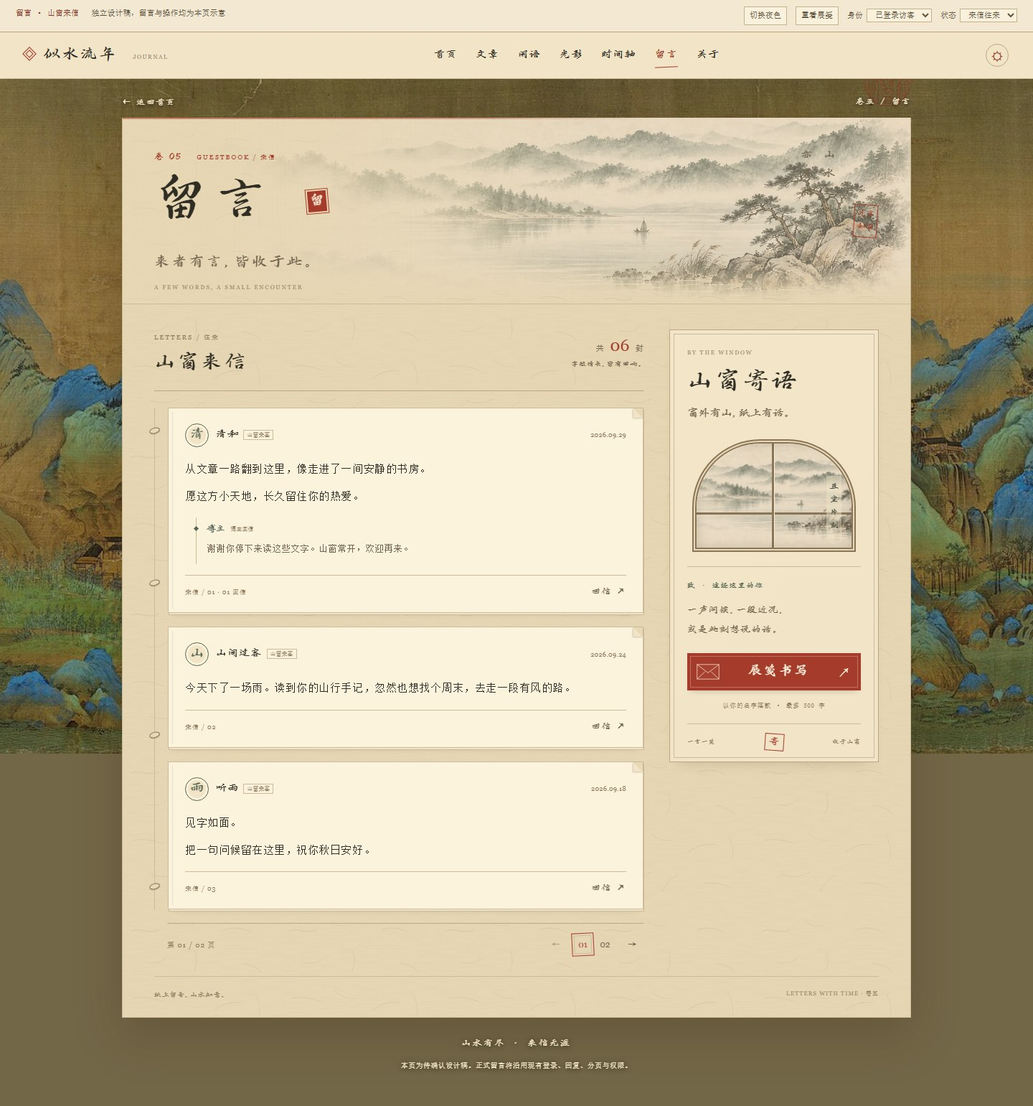
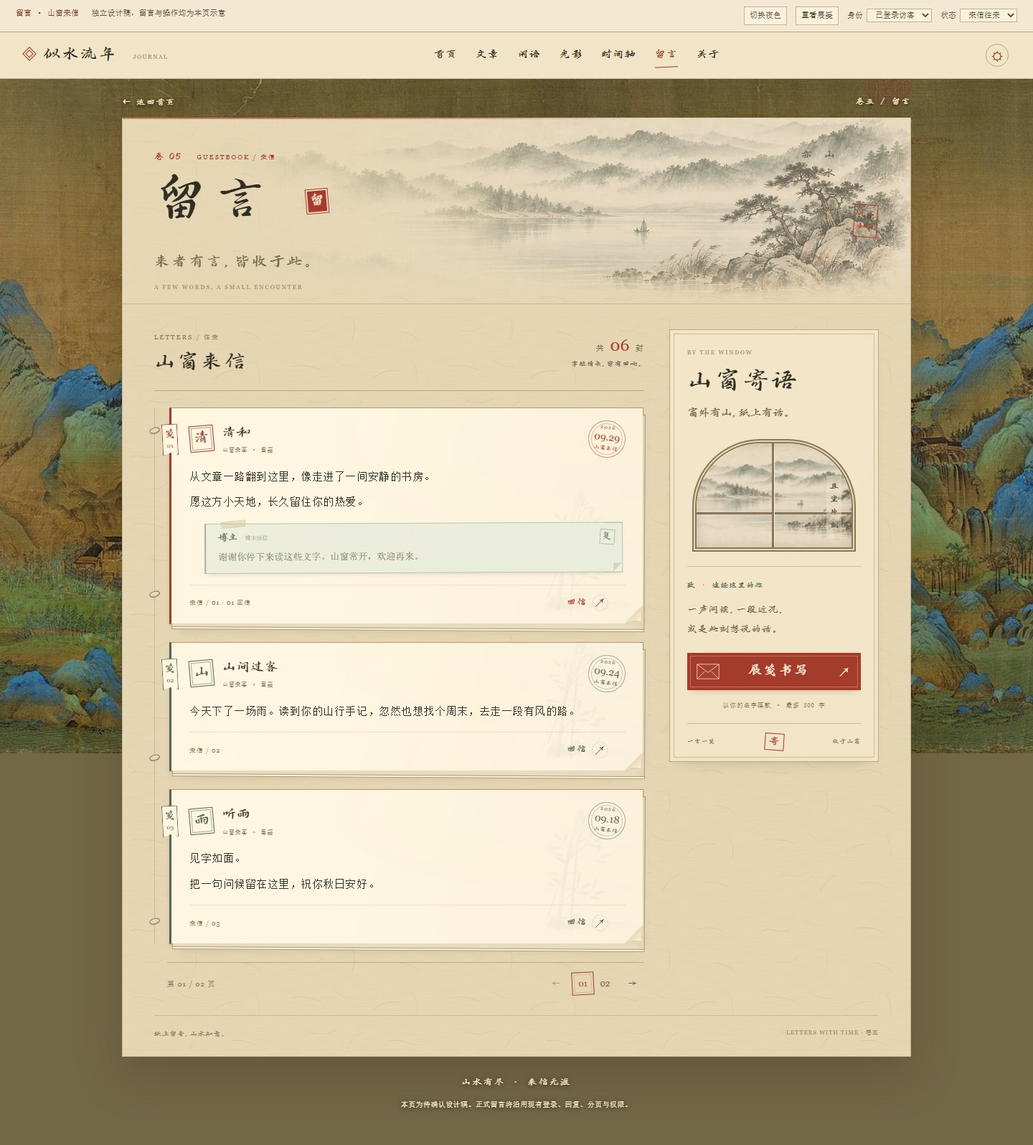
design(guestbook): refine letter cards and hover effects

diff --git a/effect-preview/guestbook-window-letters-v2.css b/effect-preview/guestbook-window-letters-v2.css
@@ -20,3 +20,192 @@ html.motion-ready .hero-landscape{animation:landscape-reveal 1.5s var(--ease) bo
 @media(max-width:760px){.correspondence{grid-template-columns:1fr;gap:28px;padding-top:24px}.writing{grid-row:1}.window-panel{position:relative;display:grid;grid-template-columns:1fr 175px;column-gap:23px;padding:21px 24px 17px}.window-panel>.eyebrow,.window-panel>h2,.window-copy{grid-column:1}.window-panel h2{font-size:34px;margin:6px 0 10px}.mountain-window{grid-column:2;grid-row:1/6;margin:0;height:162px;align-self:center}.invitation{padding-top:11px;margin-top:14px;grid-column:1}.invitation p{margin:7px 0 13px;font-size:13px}.write-action,.login-action{grid-column:1;min-height:45px;font-size:18px}.writing-note{grid-column:1/-1;text-align:left;margin:12px 0 0}.panel-tail{display:none}.section-head{margin-bottom:18px}.site-nav nav{display:none;position:absolute;left:0;right:0;top:100%;margin:0;flex-wrap:wrap;padding:18px 25px;background:var(--muted-paper);border-bottom:1px solid var(--line);justify-content:center;gap:15px 26px}.site-nav nav.open{display:flex}.nav-menu{display:block;margin-left:auto}.site-nav{min-height:58px}.masthead{height:238px}.hero-copy{padding-top:36px}.hero-copy h1{font-size:68px}.hero-inscription{right:27px;top:33px}.hero-inscription>span{font-size:14px}.hero-inscription i{margin-top:74px}.letter-body{font-size:15px}.letter-head time{font-size:9px}.sheet-tail{padding-block:17px}}
 @media(max-width:480px){.preview-tools{padding:10px 14px;gap:7px;font-size:10px}.preview-tools>div{gap:7px}.preview-tools b{display:block}.site-nav{padding-inline:18px}.sheet{margin:0 10px;padding:0 19px}.back-link{margin:18px 14px 11px}.masthead{margin-inline:-19px;height:217px}.hero-copy{padding:30px 0 18px 22px}.hero-copy h1{font-size:62px;margin-top:15px}.hero-description{font-size:19px}.hero-tail{left:22px;font-size:6px;letter-spacing:.15em}.hero-inscription{right:19px;top:39px;gap:8px}.hero-inscription>span{font-size:12px}.hero-inscription i{font-size:10px}.hero-landscape{background-position:61% 55%;opacity:.43}.window-panel{grid-template-columns:minmax(0,1fr) 105px;column-gap:12px;padding:18px 16px 16px}.window-panel h2{font-size:29px;letter-spacing:.07em}.window-copy{font-size:13px}.window-panel .eyebrow{font-size:7px}.mountain-window{height:142px;grid-row:1/5;border-width:5px}.window-view{background-size:auto 146px}.window-note{right:6px;top:44px;font-size:10px}.invitation p{font-size:12px}.invitation>span{font-size:9px}.write-action,.login-action{grid-column:1/-1;min-height:47px;justify-content:center;gap:17px;margin-top:5px}.write-action svg{width:29px}.writing-note{text-align:center;font-size:8px}.correspondence{gap:25px;padding-block:22px}.section-head h2{font-size:27px}.section-head small{font-size:9px}.section-head>p{font-size:10px}.book-body{padding-left:12px}.binding{left:-7px;width:13px}.letter{padding:18px 14px 12px;margin-bottom:17px}.letter-head{gap:8px}.avatar{width:29px;height:29px;font-size:18px}.author{font-size:14px}.letter-head time{font-size:8px;letter-spacing:0}.letter-body{font-size:14px;line-height:2.05;margin-block:14px}.reply{margin-left:6px;padding-left:12px}.letter-foot>span{font-size:8px}.text-action{font-size:13px;padding:7px 0}.pagination{margin-left:12px;font-size:9px}.pagination>div{gap:3px}.pagination button{width:29px}.sheet-tail{font-size:9px}.sheet-tail span:last-child{font-size:6px;letter-spacing:.05em}.site-footer{padding-top:25px}.site-footer p{font-size:9px}#composer-form{padding:22px 22px}.dialog-title{display:block;margin-block:20px}.dialog-title h2{font-size:36px}.dialog-title p{font-size:14px;margin-top:9px}.dialog-foot{flex-wrap:wrap;gap:10px}.dialog-foot button{width:100%;margin:3px 0 0}#message{font-size:16px;padding-left:11px}.line-numbers{width:27px}.signature{font-size:10px}.signature b{font-size:14px}.manuscript{max-height:45dvh}.toast{font-size:15px}}
 @media(prefers-reduced-motion:reduce){html{scroll-behavior:auto}*,*::before,*::after{animation:none!important;transition:none!important}.letter:hover,.write-action:hover,.login-action:hover{transform:none}}
+
+/* 来信装帧：封笺、背纸、落款邮戳与附笺回信。 */
+:root {
+  --letter-paper:#fff6e1;
+  --letter-back:#e7dbc0;
+  --letter-border:#b29b72;
+  --letter-rule:#caba9859;
+  --reply-paper:#ebeddc;
+  --reply-border:#abb298;
+  --fold-shadow:#baa17a;
+  --fold-paper:#eedfc1;
+  --fold-light:#fff8e7;
+  --letter-light:#d5b56926;
+}
+:root[data-theme=dark] {
+  --letter-paper:#564934;
+  --letter-back:#3f3528;
+  --letter-border:#a28a61;
+  --letter-rule:#c5b18330;
+  --reply-paper:#3f4838;
+  --reply-border:#7c8b6e;
+  --fold-shadow:#2c241b;
+  --fold-paper:#8b7552;
+  --fold-light:#b6a078;
+  --letter-light:#ead3a318;
+}
+.book-body {padding-left:20px;}
+.crafted-letter {
+  --letter-accent:var(--pine);
+  border:1px solid var(--letter-border);
+  border-left:3px solid var(--letter-accent);
+  margin-bottom:25px;
+  padding:17px 24px 12px 25px;
+  background:linear-gradient(108deg,#fff7dd27,transparent 32%,#76542808),var(--letter-paper);
+  box-shadow:0 1px 2px #3e2b1829,0 12px 17px -12px #3e2b185e,inset 0 1px 0 #fff7e46e;
+  transform-origin:15% 30%;
+  transition:transform .45s var(--ease),box-shadow .45s,border-color .4s;
+}
+.crafted-letter.has-reply {--letter-accent:var(--seal);}
+.crafted-letter::before {
+  inset:0;width:auto;
+  opacity:.08;
+  background:radial-gradient(ellipse at var(--letter-mx,90%) var(--letter-my,15%),var(--letter-light),transparent 65%),url('../public/bg/guestbook-botanical.svg') right 8px bottom 15px/130px auto no-repeat;
+  pointer-events:none;
+}
+.crafted-letter::after {content:none;}
+.crafted-letter > .letter-head,.crafted-letter > .letter-body,.crafted-letter > .replies,.crafted-letter > .letter-foot,.crafted-letter > .reply-input {position:relative;z-index:1;}
+.letter-surface {
+  position:absolute;inset:0;z-index:-1;pointer-events:none;
+  background:linear-gradient(108deg,#fff7dd27,transparent 32%,#76542808),var(--letter-paper);
+}
+.letter-backing {
+  position:absolute;inset:5px -4px -5px 2px;z-index:-2;
+  border:1px solid var(--letter-border);
+  background:linear-gradient(90deg,transparent 98%,#64482810),var(--letter-back);
+  box-shadow:0 3px 0 -1px var(--letter-paper),0 3px 0 var(--letter-border);
+  transform:rotate(.35deg);transform-origin:top left;
+  transition:transform .55s var(--ease);
+  pointer-events:none;
+}
+.letter-folio {
+  position:absolute;top:22px;left:-13px;width:22px;min-height:44px;z-index:2;
+  display:flex;flex-direction:column;align-items:center;gap:2px;
+  padding:4px 2px 7px;border:1px solid var(--letter-accent);
+  background:var(--letter-paper);
+  box-shadow:2px 2px 3px #31231117;
+  clip-path:polygon(0 0,100% 0,100% 100%,50% calc(100% - 4px),0 100%);
+  color:var(--letter-accent);transform:rotate(-3deg);
+  transition:transform .4s,background .4s,color .4s;
+}
+.letter-folio i {font:16px/1.2 var(--brush);font-style:normal;}
+.letter-folio b {font:8px Georgia,serif;letter-spacing:.05em;}
+.letter-fold {
+  position:absolute;right:-1px;bottom:-1px;width:25px;height:25px;z-index:2;
+  filter:drop-shadow(-1px -1px 1px #50391d25);pointer-events:none;
+  transition:width .5s var(--ease),height .5s var(--ease);
+}
+.letter-fold svg {display:block;width:100%;height:100%;overflow:visible;}
+.crafted-letter .letter-head {gap:12px;min-height:50px;padding-right:0;}
+.crafted-letter .avatar {
+  position:relative;width:34px;height:37px;border-radius:1px;
+  color:var(--letter-accent);border-color:var(--letter-accent);
+  background:var(--letter-paper);
+  box-shadow:inset 0 0 0 2px var(--letter-paper),inset 0 0 0 3px color-mix(in srgb,var(--letter-accent) 48%,transparent);
+  transform:rotate(-5deg);font-size:22px;
+  transition:transform .4s,background .4s,color .4s;
+}
+.crafted-letter .avatar::after {
+  position:absolute;inset:-2px;border:1px solid var(--letter-accent);border-radius:2px;
+  opacity:0;content:'';pointer-events:none;
+}
+.crafted-letter .author {font-size:19px;letter-spacing:.06em;}
+.crafted-letter .author-tag {
+  display:block;border:none;margin:5px 0 0;padding:0;
+  font:8px var(--song);letter-spacing:.1em;color:var(--faint);
+}
+.crafted-letter .letter-postmark {
+  display:flex;flex-direction:column;justify-content:center;align-items:center;
+  flex:none;gap:1px;width:52px;height:52px;padding:4px;
+  border:1px solid color-mix(in srgb,var(--letter-accent) 50%,transparent);
+  border-radius:50%;color:var(--letter-accent);
+  box-shadow:inset 0 0 0 3px var(--letter-paper),inset 0 0 0 4px color-mix(in srgb,var(--letter-accent) 30%,transparent);
+  transform:rotate(7deg);transition:transform .5s,color .4s,border-color .4s;
+}
+.letter-postmark span {font:7px/1 Georgia,serif;letter-spacing:.2em;}
+.letter-postmark b {font:14px/1.25 Georgia,serif;font-weight:400;letter-spacing:0;}
+.letter-postmark i {font:8px/1.4 var(--brush);letter-spacing:.08em;font-style:normal;}
+.crafted-letter .letter-body {margin:12px 0 13px;line-height:2.03;}
+.crafted-letter .letter-body p+p {margin-top:5px;}
+.crafted-letter .letter-foot {border-top-color:var(--letter-rule);padding:8px 24px 0 0;min-height:36px;}
+.crafted-letter .reply-toggle {display:flex;align-items:center;gap:7px;color:var(--letter-accent);}
+.reply-toggle b {
+  display:grid;place-items:center;width:23px;height:23px;
+  font:14px Georgia,serif;border:1px solid var(--letter-rule);border-radius:50%;
+  transition:transform .4s,border-color .4s,background .4s;
+}
+.reply-toggle:hover b {transform:translate(2px,-2px);border-color:var(--letter-accent);background:var(--muted-paper);}
+.crafted-letter .reply {
+  position:relative;margin:14px 4px 15px 21px;padding:10px 15px 10px 17px;
+  background:linear-gradient(130deg,#fff7dc17,transparent 80%),var(--reply-paper);
+  border:1px solid color-mix(in srgb,var(--reply-border) 68%,transparent);
+  border-left:2px solid var(--reply-border);
+  box-shadow:0 4px 7px -5px var(--shadow);
+  transform:rotate(-.25deg);transform-origin:top left;
+  transition:transform .5s var(--ease),box-shadow .5s;
+}
+.crafted-letter .reply::before {
+  left:21px;top:-5px;width:33px;height:8px;
+  border:1px solid #a9977359;
+  background:repeating-linear-gradient(90deg,#bfb48918 0 1px,transparent 1px 3px),#d1c3976b;
+  transform:rotate(-7deg);
+  clip-path:polygon(0 0,100% 8%,95% 100%,3% 92%);
+}
+.crafted-letter .reply::after {
+  position:absolute;right:0;bottom:0;width:12px;height:12px;content:'';
+  background:linear-gradient(135deg,var(--reply-border) 49%,var(--letter-paper) 50%);
+  opacity:.4;pointer-events:none;
+}
+.reply-seal {position:absolute;right:10px;top:9px;color:var(--pine);border:1px solid var(--reply-border);font:13px/1 var(--brush);padding:3px;transform:rotate(4deg);opacity:.8;}
+.crafted-letter .reply-name {padding-right:30px;font-size:14px;gap:10px;}
+.crafted-letter .reply p {margin-top:6px;padding-right:5px;font-size:13px;line-height:1.85;}
+.crafted-letter:hover,.crafted-letter:focus-within {
+  border-color:var(--letter-accent);
+  box-shadow:0 2px 4px #3e2b1829,0 18px 25px -15px #3e2b1866,inset 0 1px 0 #fff7e46e;
+  transform:perspective(1100px) translateY(-4px) rotateX(var(--letter-rx,0deg)) rotateY(var(--letter-ry,0deg));
+}
+.crafted-letter:hover .letter-backing,.crafted-letter:focus-within .letter-backing {transform:rotate(.7deg) translateY(1px);}
+.crafted-letter:hover .letter-fold,.crafted-letter:focus-within .letter-fold {width:41px;height:41px;}
+.crafted-letter:hover .letter-folio,.crafted-letter:focus-within .letter-folio {background:var(--letter-accent);color:var(--letter-paper);transform:rotate(0);}
+.crafted-letter:hover .avatar,.crafted-letter:focus-within .avatar {transform:rotate(0);background:var(--letter-accent);color:var(--letter-paper);}
+.crafted-letter:hover .letter-postmark,.crafted-letter:focus-within .letter-postmark {transform:rotate(0);border-color:var(--letter-accent);}
+.crafted-letter:hover .reply,.crafted-letter:focus-within .reply {transform:rotate(0);box-shadow:0 7px 10px -6px var(--shadow);}
+@keyframes received-ink {0%{opacity:.5;transform:scale(1)}100%{opacity:0;transform:scale(1.5)}}
+@keyframes seal-on-letter {0%{opacity:0;transform:scale(1.3) rotate(-9deg)}70%{opacity:1;transform:scale(.96) rotate(-5deg)}100%{transform:rotate(-5deg)}}
+@keyframes attached-note {from{opacity:0;transform:translateY(7px) rotate(-1deg)}to{opacity:1;transform:rotate(-.25deg)}}
+.crafted-letter:hover .avatar::after {animation:received-ink .7s var(--ease) both;}
+.crafted-letter.arriving .avatar {animation:seal-on-letter .65s .2s var(--ease) both;}
+.crafted-letter.arriving .reply {animation:attached-note .65s .24s var(--ease) both;}
+@media(max-width:900px) {
+  .crafted-letter {padding:16px 19px 11px 23px;}
+  .crafted-letter .author {font-size:18px;}
+}
+@media(max-width:480px) {
+  .book-body {padding-left:15px;}
+  .crafted-letter {padding:15px 14px 10px 20px;margin-bottom:23px;}
+  .letter-folio {width:19px;left:-11px;top:19px;min-height:40px;}
+  .letter-folio i {font-size:14px;}
+  .crafted-letter .letter-head {gap:10px;min-height:44px;}
+  .crafted-letter .avatar {width:29px;height:32px;font-size:19px;}
+  .crafted-letter .author {font-size:16px;}
+  .crafted-letter .author-tag {font-size:7px;letter-spacing:.03em;}
+  .crafted-letter .letter-postmark {width:46px;height:46px;}
+  .letter-postmark b {font-size:12px;}
+  .letter-postmark span {font-size:6px;}
+  .letter-postmark i {font-size:7px;}
+  .crafted-letter .letter-body {margin:12px 0;}
+  .crafted-letter .reply {margin:13px 0 13px 8px;padding:10px 12px;}
+  .crafted-letter .reply-name {font-size:13px;gap:7px;}
+  .crafted-letter .reply-name small {font-size:7px;}
+  .crafted-letter .reply p {font-size:12px;line-height:1.9;}
+  .reply-seal {right:7px;top:8px;font-size:12px;}
+  .crafted-letter .letter-foot {padding-right:18px;}
+  .letter-fold {width:21px;height:21px;}
+  .crafted-letter:focus-within .letter-fold {width:30px;height:30px;}
+}
+@media(prefers-reduced-motion:reduce) {
+  .crafted-letter:hover,.crafted-letter:focus-within {transform:none;}
+  .crafted-letter .avatar::after {display:none;}
+}

diff --git a/effect-preview/guestbook-window-letters-v2.js b/effect-preview/guestbook-window-letters-v2.js
@@ -16,7 +16,11 @@
   const bodyText = value => value.split('\n').map(line => `<p>${escape(line) || '<br>'}</p>`).join('');
   const pad = value => String(value).padStart(2,'0');
   function notify(text) { clearTimeout(timer);$('toast').textContent=text;$('toast').classList.add('visible');timer=setTimeout(()=>$('toast').classList.remove('visible'),3200); }
-  function replyHTML(reply) { return `<div class="reply"><span class="reply-name">${escape(reply.name)}${reply.owner ? '<small>博主回信</small>' : '<small>访客回信</small>'}</span><p>${escape(reply.text).replace(/\n/g,'<br>')}</p></div>`; }
+  function replyHTML(reply) { return `<div class="reply"><span class="reply-seal" aria-hidden="true">复</span><span class="reply-name">${escape(reply.name)}${reply.owner ? '<small>博主回信</small>' : '<small>访客回信</small>'}</span><p>${escape(reply.text).replace(/\n/g,'<br>')}</p></div>`; }
+  function letterCraft(item, index) {
+    const folio=pad((page-1)*3+index+1), gradient=`fold-${item.id}`;
+    return `<span class="letter-backing" aria-hidden="true"></span><span class="letter-surface" aria-hidden="true"></span><span class="letter-folio" aria-hidden="true"><i>笺</i><b>${folio}</b></span><span class="letter-fold" aria-hidden="true"><svg viewBox="0 0 60 60"><defs><linearGradient id="${gradient}" x1="0" y1="0" x2="1" y2="1"><stop stop-color="var(--fold-shadow)"/><stop offset=".55" stop-color="var(--fold-paper)"/><stop offset="1" stop-color="var(--fold-light)"/></linearGradient></defs><path d="M0 60H60V0Z" fill="var(--paper)"/><path d="M0 60L60 0Q51 30 53 52Q25 44 0 60Z" fill="url(#${gradient})"/><path d="M0 60Q25 44 53 52Q51 30 60 0" fill="none" stroke="var(--line)" stroke-width=".8"/></svg></span>`;
+  }
   function render() {
     const state = $('demo-state').value, guest = $('identity').value === 'guest', owner = $('identity').value === 'owner';
     const pages = Math.max(1,Math.ceil(data.length/3));page=Math.min(page,pages);
@@ -28,7 +32,7 @@
       stateBox.innerHTML=`<span class="state-symbol" aria-hidden="true">${symbol}</span><h3>${title}</h3><p>${copy}</p>${state==='error'?'<button type="button" id="retry-list">重新收信</button>':''}`;
       stateBox.toggleAttribute('data-loading',state==='loading');
     } else {
-      list.innerHTML=data.slice((page-1)*3,page*3).map((item,index)=>`<article class="letter" data-id="${item.id}" aria-label="${escape(item.name)}的来信"><header class="letter-head"><span class="avatar" aria-hidden="true">${escape(item.mark)}</span><span class="author">${escape(item.name)}<small class="author-tag">山窗来客</small></span><time datetime="${item.date.replaceAll('.','-')}">${item.date}</time></header><div class="letter-body">${bodyText(item.text)}</div><div class="replies">${item.replies.map(replyHTML).join('')}</div><footer class="letter-foot"><span>来信 / ${pad((page-1)*3+index+1)}${item.replies.length?` · ${pad(item.replies.length)} 回信`:''}</span><div class="letter-actions">${!guest?`<button class="text-action reply-toggle" type="button" aria-expanded="false" aria-controls="reply-${item.id}">回信 ↗</button>`:''}${owner?'<button class="text-action delete-button" type="button">收起</button>':''}</div></footer><form class="reply-input" id="reply-${item.id}" hidden><label class="sr-only" for="reply-text-${item.id}">回复${escape(item.name)}</label><textarea id="reply-text-${item.id}" maxlength="500" placeholder="写一封简短的回信……" required></textarea><div><small>示意回信 · 最多500字</small><button type="submit">寄出回信</button></div></form></article>`).join('');
+      list.innerHTML=data.slice((page-1)*3,page*3).map((item,index)=>`<article class="letter crafted-letter${item.replies.length?' has-reply':''}" data-id="${item.id}" aria-label="${escape(item.name)}的来信">${letterCraft(item,index)}<header class="letter-head"><span class="avatar" aria-hidden="true">${escape(item.mark)}</span><span class="author">${escape(item.name)}<small class="author-tag">山窗来客 · 留笺</small></span><time class="letter-postmark" datetime="${item.date.replaceAll('.','-')}" aria-label="${item.date}"><span>${item.date.slice(0,4)}</span><b>${item.date.slice(5)}</b><i aria-hidden="true">山窗来信</i></time></header><div class="letter-body">${bodyText(item.text)}</div><div class="replies">${item.replies.map(replyHTML).join('')}</div><footer class="letter-foot"><span>来信 / ${pad((page-1)*3+index+1)}${item.replies.length?` · ${pad(item.replies.length)} 回信`:''}</span><div class="letter-actions">${!guest?`<button class="text-action reply-toggle" type="button" aria-expanded="false" aria-controls="reply-${item.id}"><span>回信</span><b aria-hidden="true">↗</b></button>`:''}${owner?'<button class="text-action delete-button" type="button">收起</button>':''}</div></footer><form class="reply-input" id="reply-${item.id}" hidden><label class="sr-only" for="reply-text-${item.id}">回复${escape(item.name)}</label><textarea id="reply-text-${item.id}" maxlength="500" placeholder="写一封简短的回信……" required></textarea><div><small>示意回信 · 最多500字</small><button type="submit">寄出回信</button></div></form></article>`).join('');
     }
     document.querySelector('.pagination').hidden=list.hidden||pages<2;
     $('page-caption').textContent=`第 ${pad(page)} / ${pad(pages)} 页`;
@@ -73,6 +77,16 @@
     if(event.target.closest('.reply-toggle')){const button=event.target.closest('.reply-toggle'),form=article.querySelector('.reply-input');form.hidden=!form.hidden;button.setAttribute('aria-expanded',String(!form.hidden));if(!form.hidden)form.querySelector('textarea').focus();}
     if(event.target.closest('.delete-button')){pendingDelete=Number(article.dataset.id);returnFocus=event.target.closest('.delete-button');$('delete-dialog').showModal();}
   });
+  function resetPaper(letter) {letter?.style.removeProperty('--letter-rx');letter?.style.removeProperty('--letter-ry');letter?.style.removeProperty('--letter-mx');letter?.style.removeProperty('--letter-my');}
+  const hoverPointer=matchMedia('(hover:hover) and (pointer:fine)');
+  $('letter-list').addEventListener('pointermove',event=>{
+    if(reduced()||!hoverPointer.matches||event.pointerType==='touch')return;
+    const letter=event.target.closest('.crafted-letter');if(!letter)return;
+    const box=letter.getBoundingClientRect(),x=Math.max(0,Math.min(1,(event.clientX-box.left)/box.width)),y=Math.max(0,Math.min(1,(event.clientY-box.top)/box.height));
+    letter.style.setProperty('--letter-rx',`${(0.5-y)*1.1}deg`);letter.style.setProperty('--letter-ry',`${(x-0.5)*1.5}deg`);letter.style.setProperty('--letter-mx',`${x*100}%`);letter.style.setProperty('--letter-my',`${y*100}%`);
+  });
+  $('letter-list').addEventListener('pointerout',event=>{const letter=event.target.closest('.crafted-letter');if(letter&&!letter.contains(event.relatedTarget))resetPaper(letter)});
+  matchMedia('(prefers-reduced-motion:reduce)').addEventListener('change',()=>document.querySelectorAll('.crafted-letter').forEach(resetPaper));
   $('letter-list').addEventListener('submit',event=>{if(!event.target.matches('.reply-input'))return;event.preventDefault();const textarea=event.target.querySelector('textarea'),text=textarea.value.trim();if(!text)return;const article=event.target.closest('.letter'),item=data.find(item=>item.id===Number(article.dataset.id));item.replies.push({name:$('signature-name').textContent,text,owner:$('identity').value==='owner'});render();const target=document.querySelector(`.letter[data-id="${item.id}"] .reply-toggle`);target?.focus();notify('回信已收好 · 本页演示');});
   $('delete-dialog').addEventListener('close',()=>{if($('delete-dialog').returnValue==='confirm'){const index=data.findIndex(item=>item.id===pendingDelete);if(index>=0)data.splice(index,1);render();$('letters-title').focus();notify('示例来信已收起')}else{returnFocus?.focus()}pendingDelete=null;});
   function turnPage(value){page=value;render();$('letters-title').focus();$('letters-title').scrollIntoView({block:'start',behavior:reduced()?'instant':'smooth'});}

diff --git a/effect-preview/guestbook-window-letters-v2.md b/effect-preview/guestbook-window-letters-v2.md
@@ -10,8 +10,8 @@
 | --- | --- |
 | 山水题头 | 继续使用站内水墨山景与“来者有言，皆收于此”；保留卷五标识、书法标题与朱印，加右侧题跋和克制的英文落款 |
 | 纸面 | 桌面最大 1100px，左侧阅读区与右侧 292px 书写引导区；纸面、信笺与页边采用三个明度层次，内容结束即收束页底 |
-| 来信 | 左侧装订线和穿线环串起纸页；姓名、日期、正文、回信、落款依次排布，纸页自然撑高，不使用强制等高 |
-| 回信 | 短竖线、菱形落点、淡松色署名和正文降一级，回信输入在对应来信下展开 |
+| 来信 | 左侧装订线与穿线环串起有背纸的米白信笺；侧签、个人方印、日期圆戳、淡竹纹与右下曲面折角构成装帧，正文自然撑高 |
+| 回信 | 松色小纸条附在原笺内，用纤维胶贴、复字小印和轻微倾角区分；有回信的原笺用朱色侧线与印记，其余沿用松色 |
 | 山窗 | 保留“山窗寄语 / 窗外有山，纸上有话”；拱形窗框、双线木边、窗棂与原站水墨远山组成阅读停顿处 |
 | 书写入口 | 朱色双细框按钮与可翻起的信封线稿；“展笺书写”打开信纸弹层 |
 | 分页 | 置于来信区结尾，以小型朱色页签表达当前页，翻页后焦点回到来信标题 |
@@ -25,10 +25,19 @@
 | --- | --- |
 | 首次打开 / 重看展笺 | 山水横向显出（1.5s），标题轻入场，朱印随后落下；右侧山窗从中间打开 |
 | 来信首次进入视野 | 纸页向下展笺，正文延迟显出；完成后静止 |
-| 悬停或键盘聚焦来信 | 纸页抬升 2px、阴影与纸边微变；悬停折角由 13px 展至 19px |
+| 悬停或键盘聚焦来信 | 纸页抬升 4px、背纸微错位、方印与侧签显色；曲面折角由 25px 展至 41px，日期圆戳和附笺轻回正 |
+| 指针移动 / 移出 | 桌面纸面随指针轻微倾斜（最大约 0.75°），移出后复位；不改变排版高度，触屏不依赖此效果 |
 | 悬停书写入口 | 信封上盖翻起、入口轻抬，箭头提示寄送方向 |
 | 打开书写面板 | 信纸展笺并聚焦正文，背景虚化；关闭时回到入口 |
 | 减少动态效果 | 停用入场、循环加载及悬停位移，功能与静态内容保留 |
+
+## 卡片装帧修订
+
+依据“卡片太普通”、此前要求“卡片与背景要有区分”“增加悬停特效”和“不要过长”，本轮只强化来信纸页与回信细节。信笺正面、背纸和整页底纸使用独立颜色；前纸为 `#fff6e1`，背纸为 `#e7dbc0`，页底为 `#e8d8b5`。夜色对应区分为 `#564934`、`#3f3528`、`#332d23`。淡竹纹只作低浓度背景，不压住正文。
+
+来信保留同一设计骨架，通过真实的回信有无决定朱色/松色标识；回信是独立附笺，避免原留言与回复混成一整块。SVG 折角具有曲面路径、渐变与折痕，每封使用独立渐变 ID。书写弹层、双栏与题头保持既有构图。
+
+1440px 下三张示例纸页实测约 302 / 180 / 216px，高度随正文与回信变化；悬停不增加高度。装帧动画延续“展笺 → 显字 → 印记与附笺显出”的一次入场节奏。减少动态效果时停用倾斜、抬升和印记扩散。
 
 ## 演示范围
 
@@ -46,6 +55,7 @@
 - 未登录入口、博主演示收起与取消、空/加载/失败/重试、手机目录、减少动态效果通过。
 - 禁用 JavaScript 时仍显示三封静态来信与回信，隐藏不可用演示入口并提供正式页面链接。
 - 浏览器未捕获到页面脚本异常或资源失败。四张交付截图均在有限动画完成后保存。
+- 本轮复测通过：三个独立 SVG 折角、日期圆戳与前后纸面色差；指针倾斜和移出复位、折角展开、悬停高度不变、键盘反馈及减少动态效果均已检查。新增卡片悬停截图。
 - `npx tsc --noEmit`、`npx next build` 通过。`npx vitest run` 的 67 个文件、340 个断言通过，但有 5 个既有 `DailyQuote.tsx:105` 的 `echo.animate is not a function` 未处理异常，命令退出 1；不将全量测试标记为通过。
 
 ## 截图
@@ -54,5 +64,6 @@
 - [手机](screenshots/guestbook-v2-mobile.jpg)
 - [夜色](screenshots/guestbook-v2-dark.jpg)
 - [书写面板](screenshots/guestbook-v2-composer.jpg)
+- [来信卡片悬停](screenshots/guestbook-v2-cards.jpg)
 
 确认本稿后再实施正式留言页。正式改动应复用现有状态、回复组件、分页与确认对话框，只调整经过确认的视觉与动效。
